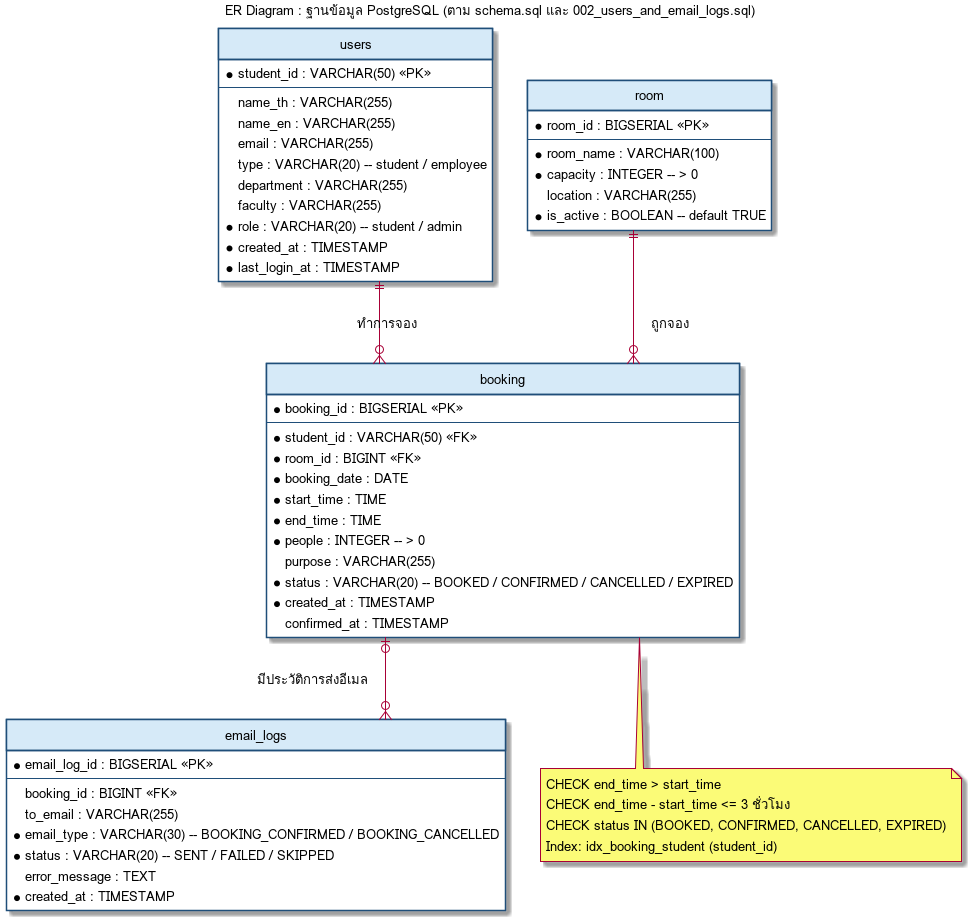
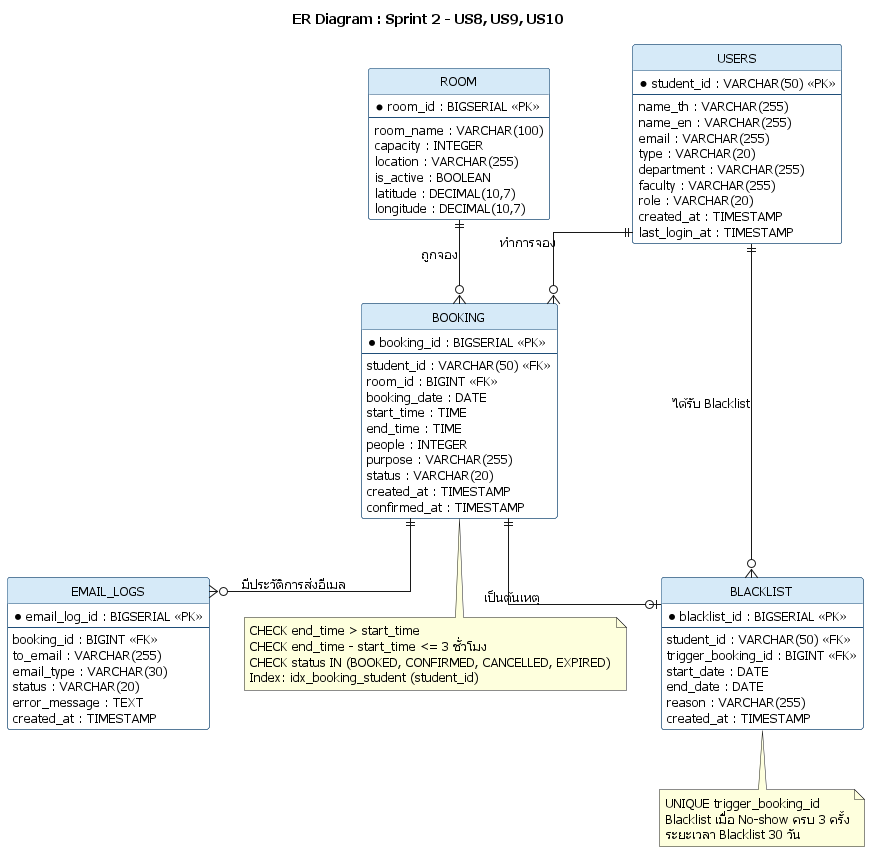
update Sprint 2 database ERD, er.puml, and er.png

Changed region(s): [[0.0, 0.0, 1.0, 1.0]]

diff --git a/database/ERD.md b/database/ERD.md
@@ -1,11 +1,16 @@
 # Database ER Diagram
 
+## Sprint 2 – US8, US9, US10
+
 ```mermaid
 erDiagram
 
     USERS ||--o{ BOOKING : makes
     ROOM ||--o{ BOOKING : has
     BOOKING ||--o{ EMAIL_LOGS : generates
+
+    USERS ||--o{ BLACKLIST : receives
+    BOOKING ||--o| BLACKLIST : triggers
 
     USERS {
         varchar student_id PK
@@ -26,6 +31,8 @@ erDiagram
         integer capacity
         varchar location
         boolean is_active
+        decimal latitude
+        decimal longitude
     }
 
     BOOKING {
@@ -35,6 +42,8 @@ erDiagram
         date booking_date
         time start_time
         time end_time
+        integer people
+        varchar purpose
         varchar status
         timestamp created_at
         timestamp confirmed_at
@@ -49,4 +58,46 @@ erDiagram
         text error_message
         timestamp created_at
     }
+
+    BLACKLIST {
+        bigint blacklist_id PK
+        varchar student_id FK
+        bigint trigger_booking_id FK
+        date start_date
+        date end_date
+        varchar reason
+        timestamp created_at
+    }
+```
+
+## Table Descriptions
+
+### USERS
+
+เก็บข้อมูลผู้ใช้งานระบบ
+
+### ROOM
+
+เก็บข้อมูลห้อง โดยเพิ่ม `latitude` และ `longitude` สำหรับตรวจสอบตำแหน่งขณะ Check-in (US8)
+
+### BOOKING
+
+เก็บข้อมูลการจอง โดยใช้ `confirmed_at` สำหรับบันทึกเวลาที่ Check-in สำเร็จ และ `status = 'EXPIRED'` สำหรับรายการ No-show (US8, US9)
+
+### EMAIL_LOGS
+
+เก็บประวัติการส่งอีเมลของระบบ เช่น อีเมลแจ้งเตือน Blacklist
+
+### BLACKLIST
+
+เก็บประวัติการระงับสิทธิ์การจองของผู้ใช้ โดยบันทึกผู้ใช้ Booking ที่เป็นต้นเหตุ วันที่เริ่ม–สิ้นสุด และเหตุผล (US10)
+
+## Relationships
+
+| Relationship | Description |
+|---|---|
+| USERS 1:N BOOKING | ผู้ใช้หนึ่งคนสามารถจองได้หลายครั้ง |
+| ROOM 1:N BOOKING | ห้องหนึ่งห้องมีรายการจองได้หลายรายการ |
+| BOOKING 1:N EMAIL_LOGS | รายการจองหนึ่งรายการมีประวัติการส่งอีเมลได้หลายรายการ |
+| USERS 1:N BLACKLIST | ผู้ใช้หนึ่งคนมีประวัติ Blacklist ได้หลายรายการ |
 ```
